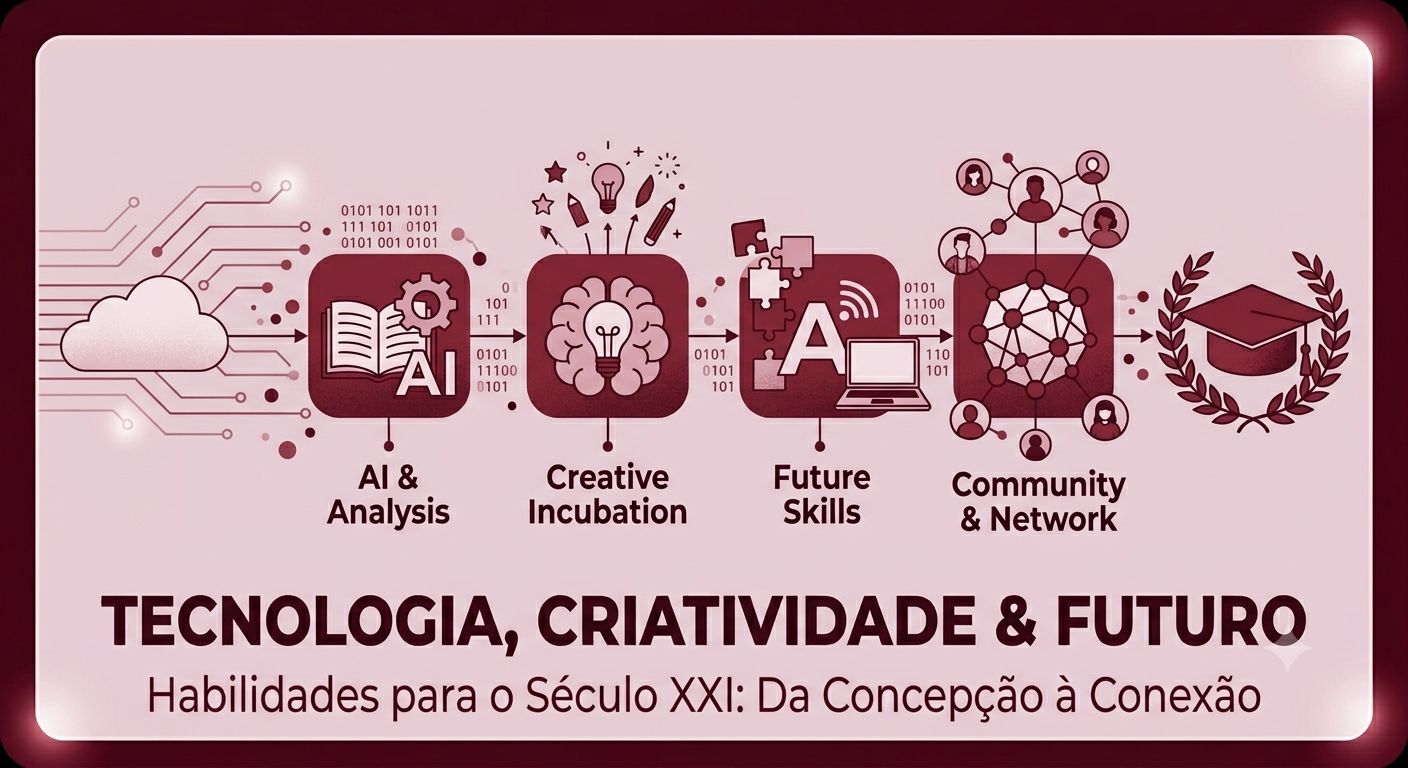
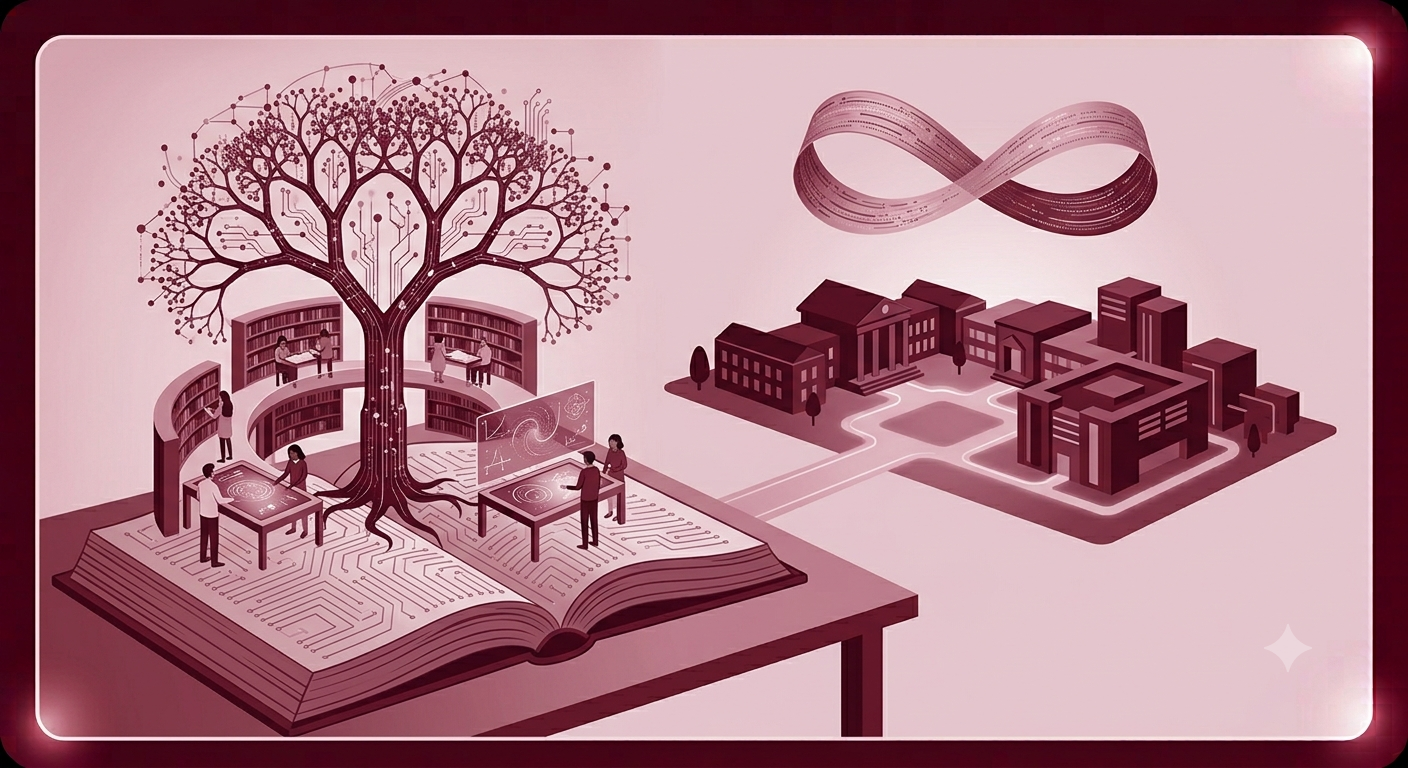
28jun26

diff --git a/index.html b/index.html
@@ -45,7 +45,7 @@
         </header>
     <main>
         <article>
-            <img src="mm.png" alt="Ilustração em tons de rosa e marrom com o título 
+            <img src="m.png" alt="Ilustração em tons de rosa e marrom com o título 
                 " TECNOLOGIA & EDUCAÇÃO: Inovação para o Aprendizado do Futuro". No centro, um jovem está sentado com um
                 notebook no colo, apontando para uma nuvem conectada a vários ícones: um capelo de formatura com números
                 binários, lâmpadas com engrenagens, um livro aberto e uma rede de dados. Ao fundo, há a silhueta de uma
@@ -68,7 +68,7 @@
             </div>
         </article>
         <article>
-            <img src="mmm.png" alt="Infográfico horizontal nas cores vinho e rosa claro com o 
+            <img src="mm.png" alt="Infográfico horizontal nas cores vinho e rosa claro com o 
             título 'TECNOLOGIA, CRIATIVIDADE & FUTURO'. O desenho mostra um fluxo de aprendizado 
             em 4 etapas conectadas por circuitos digitais: IA, Criatividade, 
             Habilidades do Futuro e Comunidade, terminando em um chapéu de formatura.">